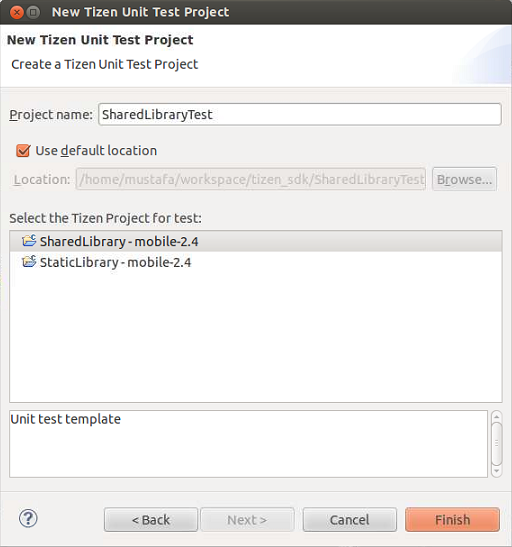
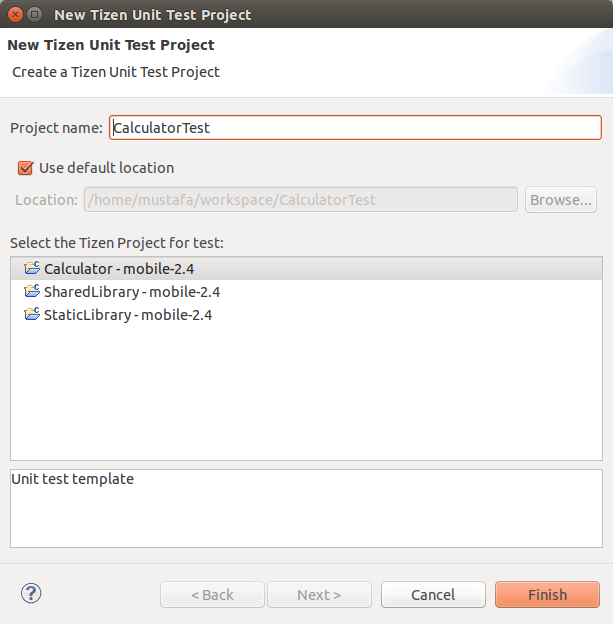
Added some guides and examples for mangle naming problem

diff --git a/org.tizen.devtools/html/native_tools/unit_test_n.htm b/org.tizen.devtools/html/native_tools/unit_test_n.htm
@@ -77,6 +77,56 @@
 <p>The unit test tool supports basic assertions, binary comparison, and string comparison in gtest. For more information, see <a href="https://github.com/google/googletest/blob/master/googletest/docs/AdvancedGuide.md" target="_blank">https://github.com/google/googletest/blob/master/googletest/docs/AdvancedGuide.md</a>.</p></li>
 </ol>
 
+<p><strong>Note:</strong>To test your project written in C code</p>
+  We provide a unit test project written in C++ language. So the function which you want to test should be qualified as extern "C" to avoid the error, "undefined reference" as demangled symbols in the error message.
+  There are two forms of the extern "C" declaration.
+<li><p>Declare with extern "C" linkage specification in C header file:</p>
+ 
+<pre class="prettyprint">
+#ifdef __cplusplus
+extern "C" {
+#endif
+
+int foo;
+void bar();
+
+#ifdef __cplusplus
+}
+#endif
+</pre></li>
+<li><p>Include C headers in C++ Code:</p>
+ 
+<pre class="prettyprint">
+extern "C" {
+    #include "header.h"
+}
+</pre></li>
+
+<p>Here is a detail example with calculator sample project:</p>
+We will write a test case for <span style="font-family: Courier New, Courier, monospace">utils_round</span> function declared in utils/utils.h.
+<ol>
+<li>Create a calculator project named "Calculator" and a unit test project for calculator project named "CalculatorTest".</li>
+<li>Append the test method to the end of CalculatorTest/src/CalculatorTestTestCase.cpp file.</li>
+<pre class="prettyprint">
+TEST_F(TestSuite, utils_round)
+{
+    double var = 3.5;
+    // long long utils_round(double value);
+
+    EXPECT_EQ(utils_round(var), (long long)4);
+}
+</pre>
+<li>Change the line including "utils/utils.h" such as:</li>
+<pre class="prettyprint">
+#include "view/window.h"
+#include "view/main-view.h"
+extern "C" {
+#include "utils/utils.h"
+}
+#include "utils/ui-utils.h"
+</pre>
+If you do not want to change source codes to the calculator project, you can declare with extern "C" linkage specifications in the test project as the example.
+</ol>
 <h2 id="run">Running a Test Project</h2>
 
 <p>You can run a test project on the Emulator or a target device.</p>
